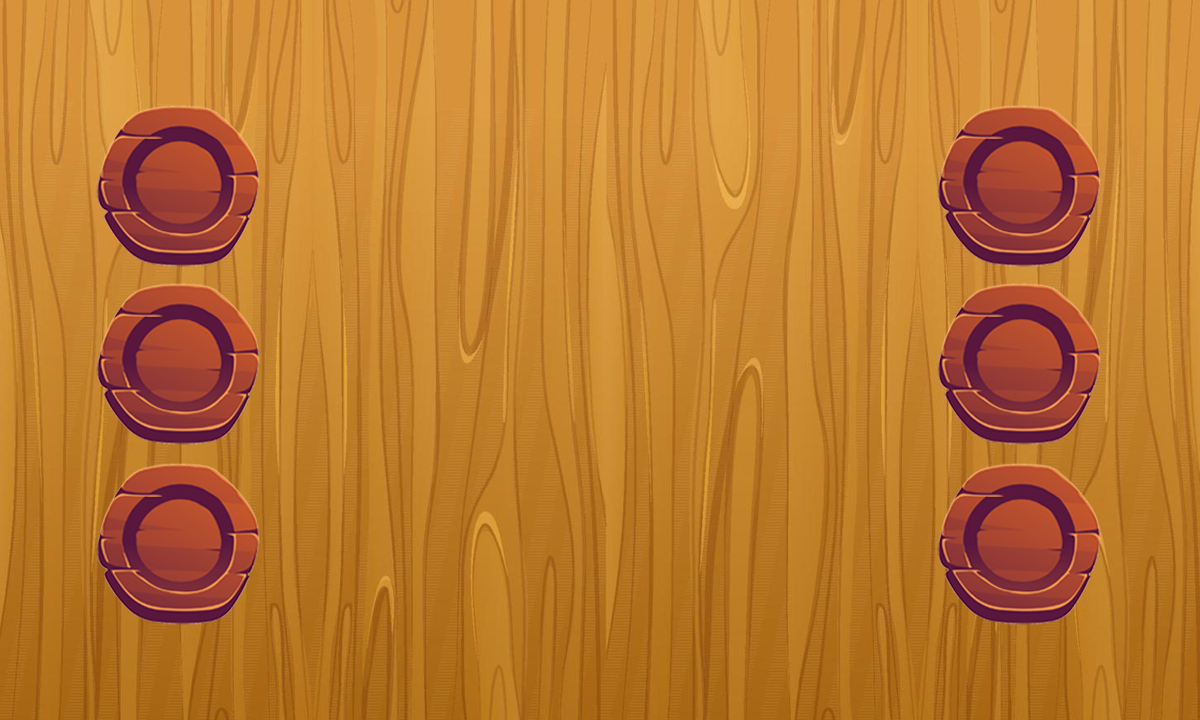
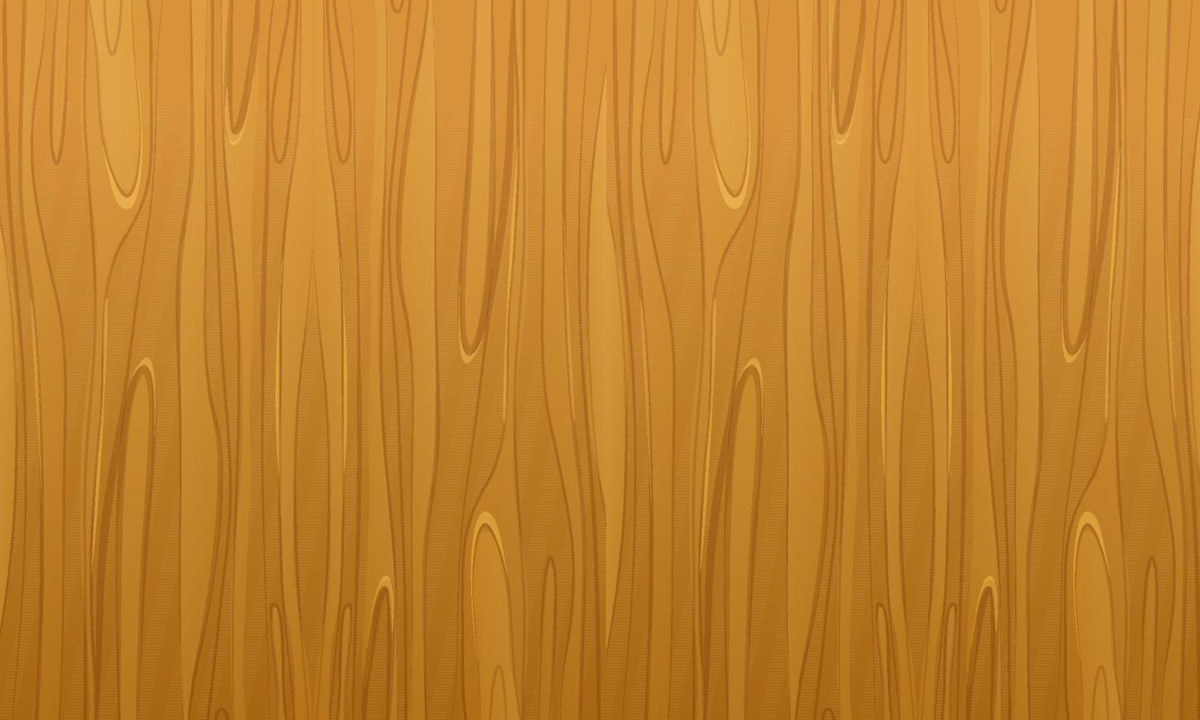
background cosmetics

Changed region(s): [[0.7708, 0.1222, 0.925, 0.8861], [0.0617, 0.1222, 0.2158, 0.8861]]

diff --git a/states/playing.py b/states/playing.py
@@ -47,7 +47,7 @@ class Playing(State):
         State.__init__(self, game)
         self.spritesheet = Spritesheet('assets/sprites/sprites.png')
         self.map = TileMap('assets/sprites/map.csv', self.spritesheet)
-        self.bg = pygame.image.load("assets/background/background.png")
+        self.bg = pygame.image.load("assets/background/game background(space).png")
         self.turn = BLUE_PLAYER  # BLUE starts the game
         self.players_names = ['Player 1', 'Player 2']
         self.turn_text = self.players_names[self.turn - 1] + ' Turn'

diff --git a/states/winnerMenu.py b/states/winnerMenu.py
@@ -72,7 +72,7 @@ class WinnerMenu(State):
                 self.game.running = False
 
     def render(self, display):
-        display.fill(self.game.BLUE)
+        display.blit(self.game.menubg, (0, 0))
         self.helper.draw_text(display, f"PLAYER {self.winner} WINS", self.game.RED, 80, self.game.DISPLAY_W / 2, 50)
         self.menuGUI.render(display)
 

diff --git a/states/pauseOptions.py b/states/pauseOptions.py
@@ -38,7 +38,7 @@ class PauseOptions(State):
                     option_state.enter_state()
 
     def render(self, display):
-        display.fill(self.game.BLUE)
+        display.blit(self.game.menubg, (0, 0))
         self.helper.draw_text(display, 'Pause Options', self.game.RED, 80, self.game.DISPLAY_W / 2, 50)
         self.menuGUI.render(display)
 

diff --git a/states/drawMenu.py b/states/drawMenu.py
@@ -71,7 +71,7 @@ class DrawMenu(State):
                 self.game.running = False
 
     def render(self, display):
-        display.fill(self.game.BLUE)
+        display.blit(self.game.menubg, (0, 0))
         self.helper.draw_text(display, "IT'S A DRAW", self.game.RED, 80, self.game.DISPLAY_W / 2, 50)
         self.menuGUI.render(display)
 

diff --git a/states/pauseMenu.py b/states/pauseMenu.py
@@ -60,7 +60,7 @@ class PauseMenu(State):
                 self.game.running = False
 
     def render(self, display):
-        display.fill(self.game.BLUE)
+        display.blit(self.game.menubg, (0, 0))
         self.helper.draw_text(display, 'Pause Menu', self.game.RED, 80, self.game.DISPLAY_W / 2, 50)
         self.menuGUI.render(display)
 

diff --git a/states/option.py b/states/option.py
@@ -43,7 +43,7 @@ class Option(State):
                     option_state.enter_state()
 
     def render(self, display):
-        display.fill(self.game.BLUE)
+        display.blit(self.game.menubg, (0, 0))
         self.helper.draw_text(display, 'Options', self.game.RED, 80, self.game.DISPLAY_W / 2, 50)
         self.menuGUI.render(display)
 

diff --git a/util/game.py b/util/game.py
@@ -33,6 +33,9 @@ class Game():
 
         self.font_name = "assets/font/f.TTF"
         
+        # menus background
+        self.menubg = pygame.image.load("assets/background/background(space).png")
+        
         # background music
         self.music_player = MusicPlayer()
         self.music_track = 'assets/sound/8-bit Menu.mp3'

diff --git a/states/mainMenu.py b/states/mainMenu.py
@@ -70,7 +70,8 @@ class MainMenu(State):
                 self.game.running = False
 
     def render(self, display):
-        display.fill(self.game.BLUE)
+        # display.fill(self.game.BLUE)
+        display.blit(self.game.menubg, (0, 0))
         self.menuGUI.render(display)
 
     def enter_state(self):
